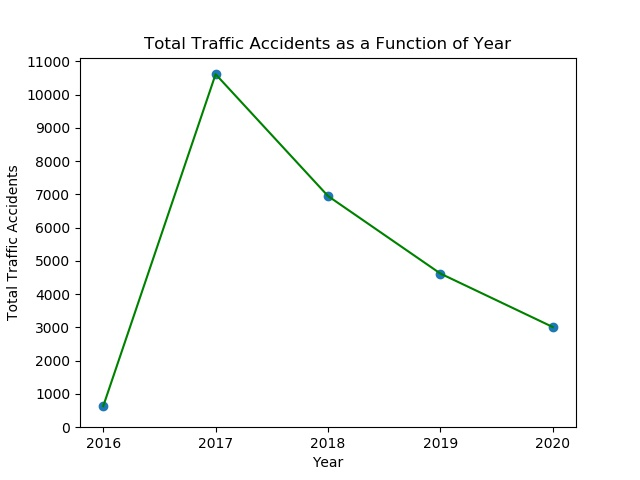
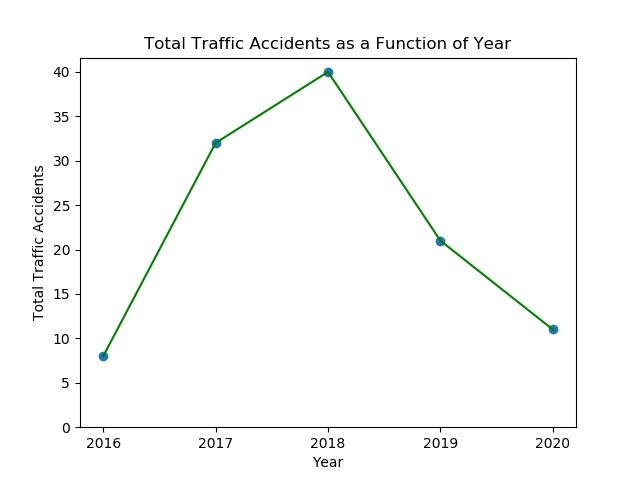
Revised plot file contains max not total traffic volume/incidents

diff --git a/app_plot.py b/app_plot.py
@@ -4,8 +4,8 @@ import matplotlib.pyplot as plt
 from database import db
 
 '''
-Identify/plot total traffic volumes in Calgary between 2016-2018 (2019/20 data was not available)
-Identify/plot total accident volumes in Calgary between 2016-2020 
+Identify/plot maximum traffic volumes in Calgary between 2016-2018 (2019/20 data was not available)
+Identify/plot maximum accident volumes at specific intersection (using Column: Incident_Info) in Calgary between 2016-2020 
 '''
 
 # Read csv files and load them into dataframe
@@ -29,74 +29,69 @@ inc_19 = db.get_dataframe_from_db_by_year(df, 2019, 'traffic_incident')
 inc_20 = db.get_dataframe_from_db_by_year(df, 2020, 'traffic_incident')
 
 #Sum values within 'volume' column to determine sum total
-volumes[0] = vol_16['volume'].sum()
-volumes[1] = vol_17['volume'].sum()
-volumes[2] = vol_18['volume'].sum()
+volumes[0] = vol_16['volume'].max()
+volumes[1] = vol_17['volume'].max()
+volumes[2] = vol_18['volume'].max()
 
-#Initialize vol_mill to store value of volumes dividied by a million. Allows easier presentation
-vol_million = []
+
+#Initialize vol_condensed to store value of volumes dividied by a 1x10^5. Allows easier presentation
+vol_condensed = []
 for x in volumes:
-    vol_million.append(x/1000000)
+    vol_condensed.append(x/100000)
 
+#Function creates a histogram of values of: (Incident Info : count)
+#Will return description of incident info as well as frequency of occurence. 
+#Sorted in Descending order so first element is the maximum number of occurences of Incidents.
+def most_frequent(list):
+    hist = pd.value_counts(list.incident_info, sort = True, ascending =False)
+    return hist[0]
 
 #Sum values within 'count' column to determine sum total. 
 #Note: All count values were equal to 1 and representing each separate incident
-incidents[0] = inc_16['count'].sum()
-incidents[1] = inc_17['count'].sum()
-incidents[2] = inc_18['count'].sum()
-incidents[3] = inc_19['count'].sum()
-incidents[4] = inc_20['count'].sum()
-
+incidents[0] = most_frequent(inc_16)
+incidents[1] = most_frequent(inc_17)
+incidents[2] = most_frequent(inc_18)
+incidents[3] = most_frequent(inc_19)
+incidents[4] = most_frequent(inc_20)
 
 
 ####PLOT VOLUME GRAPH####
 
 #Plot scatter and line plot. Plotting volumes[0:3] because volumes available for 2016,17,18 only. 
-plt.scatter(year[0:3], vol_million)
-plt.plot(year[0:3],vol_million,linestyle = '-',color='green')
+plt.scatter(year[0:3], vol_condensed)
+plt.plot(year[0:3],vol_condensed,linestyle = '-',color='green')
 
 #Plot Attributes
-plt.title('Total Traffic Volume as a Function of Year')
+plt.title('Maximum Traffic Volume as a Function of Year')
 plt.xlabel('Year')
-plt.ylabel('Total Traffic Volume \n (Millions)')
-
+plt.ylabel('Maximum Traffic Volume \n (x10^5)')
 
 #Increment year by 1 on x axis. Ie. prevents decimal point years on x-axis
 plt.xticks(np.arange(min(year[0:3]), max(year[0:3])+1, 1.0))
 
 #Save figure and show plot
-plt.savefig("Volume_Year.jpg")
+plt.savefig("Volume_Year.png")
 plt.show()
 
 
 ####PLOT INCIDENTS GRAPH####
-
+##Graph plots maximum incident occurences (by Incident Info description column) in a specific year
 #Plot scatter and line plot
 plt.scatter(year, incidents)
 plt.plot(year,incidents,linestyle = '-',color='green')
 
 #Plot Attributes
-plt.title('Total Traffic Accidents as a Function of Year')
+plt.title('Maximum Traffic Accidents as a Function of Year')
 plt.xlabel('Year')
-plt.ylabel('Total Traffic Accidents')
+plt.ylabel('Maximum Traffic Accidents')
 
 #Arrange axis with appropriate increments
 plt.xticks(np.arange(min(year), max(year)+1, 1.0))
-plt.yticks(np.arange(0, max(incidents)+1000, 1000))
+plt.yticks(np.arange(0, max(incidents)+5, 5))
 
 #Save figure and show plot
-plt.savefig("Accident_Year.jpg")
+plt.savefig("Accident_Year.png")
 plt.show()
 
-
-####DATAFRAME CONTAINING VOLUME WITH CORRESPONDING YEAR####
-Vol_data = {'Year': year[0:3],'Total Traffic Volume': volumes}
-Vol_df = pd.DataFrame(Vol_data,columns=['Year','Total Traffic Volume'])
-print(Vol_df)
-
-####DATAFRAME CONTAINING INCIDENTS WITH CORRESPONDING YEAR####
-Inc_data = {'Year': year,'Total Traffic Incidents': incidents}
-Inc_df = pd.DataFrame(Inc_data,columns=['Year','Total Traffic Incidents'])
-print(Inc_df)
 
 
